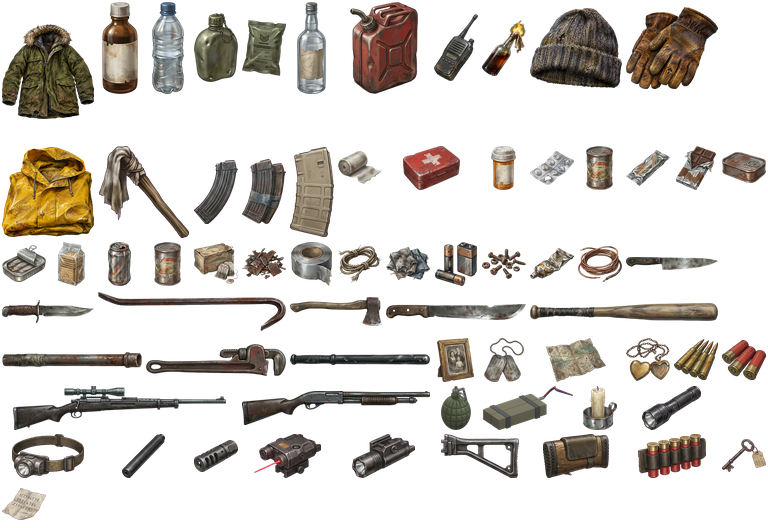
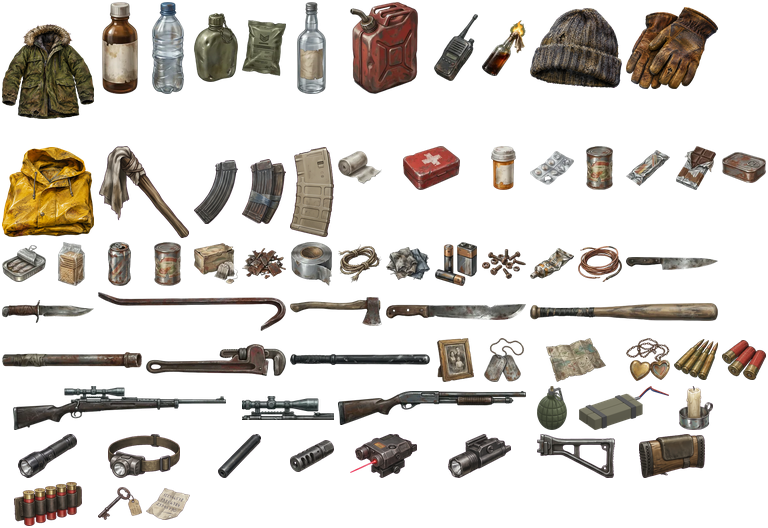
Luneta jako ulepszenie karabinu (założona na start) i strzał celowany: klik na wroga zatrzymuje czas, wybór części ciała widocznej z pozycji gracza z szansą trafienia
Claude-Session: https://claude.ai/code/session_01Tnx3kWKqVoZymAUDQ3LKJB

Changed region(s): [[0.0, 0.7273, 1.0, 1.0]]

diff --git a/index.html b/index.html
@@ -39,6 +39,11 @@ body{background:var(--bg);color:var(--text);font-family:var(--f-ui);overflow:hid
 #body .bar{height:8px;background:#14130f;border:1px solid #3a372f;border-radius:2px;overflow:hidden}
 #body .bar i{display:block;height:100%;width:0;background:var(--green);transition:width .2s}
 #body #dState{grid-column:1/3;font-family:var(--f-term);font-size:17px;color:var(--text)}
+#aimPanel{position:absolute;right:max(10px,env(safe-area-inset-right,0px));top:10px;z-index:6;background:rgba(14,13,10,.94);border:1px solid #ffcf5a;border-radius:6px;padding:10px 12px;width:230px;color:var(--text,#e8e0c8)}
+#aimPanel .ah{font-size:12px;color:var(--muted,#a8a08a);margin:4px 0 8px}
+#aimList{display:flex;flex-direction:column;gap:4px;margin-bottom:8px}
+#aimList button,#aimNo{display:flex;justify-content:space-between;background:#24211b;color:inherit;border:1px solid #4a463c;border-radius:4px;padding:4px 8px;font:inherit;font-size:15px;cursor:pointer;width:100%}
+#aimList button:hover{border-color:#ffcf5a}#aimList button b{color:#ffcf5a;font-family:var(--f-term)}#aimList button:disabled{opacity:.45;cursor:default}#aimList button:disabled b{color:inherit}
 #keypad{position:absolute;left:50%;top:50%;transform:translate(-50%,-50%);z-index:6;background:rgba(14,13,10,.96);border:1px solid var(--amber,#e8a63a);border-radius:6px;padding:12px 16px;color:var(--text,#e8e0c8);text-align:center;min-width:240px}
 #kpDials{display:flex;gap:10px;justify-content:center;margin:8px 0}
 #kpDials .dial{display:flex;flex-direction:column;align-items:center;gap:2px}
@@ -91,7 +96,7 @@ body{background:var(--bg);color:var(--text);font-family:var(--f-ui);overflow:hid
 #wmPop .ph button{background:none;border:0;color:var(--text);font-size:18px;cursor:pointer}
 #wmPop .wmg{display:flex;gap:12px;align-items:center}
 #wmPop .wmIcon{position:relative;width:150px;height:80px;background:#191814;border:1px solid #4a463e;border-radius:4px;overflow:hidden}
-#wmSlots{display:grid;grid-template-columns:repeat(2,64px);gap:6px}
+#wmSlots{display:grid;grid-template-columns:repeat(3,64px);gap:6px}
 #wmInfo{margin:8px 0 0;font-size:14px;color:var(--muted);max-width:340px}
 #slots{display:grid;grid-template-columns:auto 1fr auto;gap:8px}
 #slots .slot,#wmSlots .slot{position:relative;width:64px;height:64px;background:#191814;border:1px solid #4a463e;border-radius:4px;overflow:hidden}
@@ -117,6 +122,7 @@ button kbd{font-family:var(--f-term);font-size:17px;color:var(--amber);margin-ri
     <canvas id="c" aria-label="Izometryczna scena z prerenderowanych sprite'ów: zrujnowana kamienica, pawilon, wrak auta, złomiarze i wilczur"></canvas>
     <div id="vig"></div>
     <div id="tip" hidden></div>
+    <div id="aimPanel" hidden><div class="lbl" id="aimTitle">CEL</div><p class="ah">Czas stoi. Wybierz, w co strzelasz (klik na liście albo na ciele wroga). Esc: rezygnujesz.</p><div id="aimList"></div><button id="aimNo">Anuluj</button></div>
     <div id="keypad" hidden><div class="lbl">SEJF · SZYFR</div><div id="kpDials"></div><p id="kpHint"></p><div class="kpb"><button id="kpOk">Otwórz</button><button id="kpNo">Odejdź</button></div></div>
     <div id="ovl" aria-label="Ciało i wykrycie"><div class="lbl">CIAŁO I WYKRYCIE</div>
       <span>Kondycja</span><div class="bar"><i id="oSta"></i></div>
@@ -1119,7 +1125,7 @@ function pickWorld(bx,by){
 function playerFire(bx,by){
   if(uiOpen)return;if(searchSt){searchSt=null;}
   if(!player.alive){log('Nie żyjesz. Naciśnij R, żeby zacząć od nowa.');return;}
-  if(cool>0)return;const T=pickWorld(bx,by);if(!T)return;const w=WEAP[cur];
+  if(cool>0)return;const T=forcedShot?forcedShot.T:pickWorld(bx,by);if(!T)return;const w=WEAP[cur];
   if(w.gun&&!player.canShoot){log('Broń dwuręczna: jedną ręką nie strzelisz. Weź nóż (6) albo granat.');return;}
   if(!w.gun&&handOf(player)<0&&w.id!=='melee'){log('Bez rąk nic nie rzucisz.');return;}
   if(player.gait==='run'&&player.moving&&w.gun){log('W biegu nie strzelisz celnie. Puść Shift.');return;}
@@ -1135,7 +1141,7 @@ function playerFire(bx,by){
     const M=muzzle(player),p=proj(...M),md=modsOf(w.id);flashes.push({x:p[0],y:p[1],r:(w.id==='rifle'?16:24)*gunStat(w.id,'flash',1),a:.9});
     sfx(md.muzzle==='suppressor'?'strzal_tlumik':w.id==='rifle'?'karabin':'strzelba');
     const hl=player.lightOn&&player.eq.light&&IT[player.eq.light.id].light.hand;
-    const sv=shiver(),spk=gunStat(w.id,'spread',1)/(md.rail==='laser'&&player.batt<=0?.6:1)*(hl?1.6:1),dm=gunStat(w.id,'dmg',1),rk=gunStat(w.id,'recoil',1);
+    const sv=shiver(),spk=(forcedShot?forcedShot.k:gunStat(w.id,'spread',1)/(md.rail==='laser'&&player.batt<=0?.6:1))*(hl?1.6:1),dm=gunStat(w.id,'dmg',1),rk=gunStat(w.id,'recoil',1);
     if(w.id==='rifle')fireBullet(player,M,T,(.002+sv*.007)*spk,45*dm,2.2,.3);else for(let k=0;k<9;k++)fireBullet(player,M,T,(.03+sv*.008)*Math.max(.75,spk),14*dm,1.4,.07);
     shake+=(w.id==='rifle'?.8:1.6)*rk;player.recoil=(w.id==='rifle'?7:11)*rk;
     if(player.mag[w.id]<=0)setTimeout(()=>{if(player.alive&&!player.reload)startReload(w.id,true);},250);
@@ -1922,12 +1928,12 @@ function drawFx(){
   for(const t of tracers){ctx.strokeStyle=`rgba(255,226,150,${t.life/7})`;ctx.lineWidth=1;ctx.beginPath();ctx.moveTo(t.a[0],t.a[1]);ctx.lineTo(t.b[0],t.b[1]);ctx.stroke();}
   ctx.restore();
   ctx.save();ctx.globalAlpha=.022;ctx.translate((rnd()*128)|0,(rnd()*128)|0);ctx.fillStyle=grain;ctx.fillRect(-128,-128,BW+128,BH+128);ctx.restore();
-  drawRoofHole(false);drawWeather();applyLightmap();drawFireGlow();drawHandFlame();drawLights();drawRings();drawBubbles();drawInteract();
+  drawRoofHole(false);drawWeather();applyLightmap();drawFireGlow();drawHandFlame();drawLights();drawAimOverlay();drawRings();drawBubbles();drawInteract();
   drawAim();
   if(mx>=0){const hov=fPick[my*BW+mx]<=-2;ctx.fillStyle=hov?'#ff5a43':'#ffffff';ctx.fillRect(mx-6,my,4,1);ctx.fillRect(mx+3,my,4,1);ctx.fillRect(mx,my-6,1,4);ctx.fillRect(mx,my+3,1,4);}
 }
 
-window.__op={get TIME(){return TIME},get HOLE(){return HOLE},get SECRET(){return SECRET},installMod:(...a)=>installMod(...a),toggleLight:()=>toggleLight(),trySafe:c=>trySafe(c),startReload:w=>startReload(w),get pend(){return pend},get drag(){return drag},dropTarget:()=>dropTarget(),setW,addItem,get IT(){return IT},sever,gainXP,loadKg,get keys(){return keys},get blds(){return blds},setDoor,nearDoor,get ROT(){return ROT},get objs(){return objs},get wx(){return wx},setWeather,get conts(){return conts},get lights(){return lights},interact,get uiOpen(){return uiOpen},closeUI,openUI,get viewB(){return viewB},get chars(){return chars},get nb(){return nb},get gb(){return gBurn.length},get amt(){return fireAmt},moloBurst,explode,setStance,rotateView,get player(){return player}};
+window.__op={get TIME(){return TIME},get HOLE(){return HOLE},get SECRET(){return SECRET},installMod:(...a)=>installMod(...a),toggleLight:()=>toggleLight(),trySafe:c=>trySafe(c),startReload:w=>startReload(w),get aimMode(){return aimMode},startAim:c=>startAim(c),aimShoot:p=>aimShoot(p),get pend(){return pend},get drag(){return drag},dropTarget:()=>dropTarget(),setW,addItem,get IT(){return IT},sever,gainXP,loadKg,get keys(){return keys},get blds(){return blds},setDoor,nearDoor,get ROT(){return ROT},get objs(){return objs},get wx(){return wx},setWeather,get conts(){return conts},get lights(){return lights},interact,get uiOpen(){return uiOpen},closeUI,openUI,get viewB(){return viewB},get chars(){return chars},get nb(){return nb},get gb(){return gBurn.length},get amt(){return fireAmt},moloBurst,explode,setStance,rotateView,get player(){return player}};
 
 // ================= HUD =================
 const logEl=document.getElementById('log'),tip=document.getElementById('tip'),stats=document.getElementById('stats');
@@ -2131,6 +2137,7 @@ const stage=document.getElementById('stage');
 addEventListener('keydown',e=>{
   if(e.target.closest&&e.target.closest('button')&&(e.key===' '||e.key==='Enter'))return;
   const k=e.key.toLowerCase();
+  if(aimMode){if(e.key==='Escape')endAim();e.preventDefault();return;}
   if(uiOpen){if(k==='r'&&drag){drag.r=drag.r?0:1;const gh=drag.ghost;drag.ghost=mkGhost(drag.it.id,drag.r);gh.remove();moveGhost({clientX:drag.cx,clientY:drag.cy});}
     else if(k==='i'||k==='escape'||k==='tab'||k==='f'){e.preventDefault();closeUI();}return;}
   if(k==='i'||k==='tab'){e.preventDefault();if(ready&&player.alive)openUI(null);return;}
@@ -2166,7 +2173,10 @@ addEventListener('blur',()=>{for(const k in keys)keys[k]=false;});
 function toBuf(e){const r=cv.getBoundingClientRect();return [Math.floor((e.clientX-r.left)/r.width*BW),Math.floor((e.clientY-r.top)/r.height*BH)];}
 cv.addEventListener('pointermove',e=>{[mx,my]=toBuf(e);if(mx<0||my<0||mx>=BW||my>=BH)mx=my=-1;const sr=stage.getBoundingClientRect();tip.style.left=(e.clientX-sr.left+18)+'px';tip.style.top=(e.clientY-sr.top+14)+'px';});
 cv.addEventListener('pointerleave',()=>{mx=my=-1;tip.hidden=true;});
-cv.addEventListener('pointerdown',e=>{if(!ready)return;if(e.pointerType==='mouse'&&e.button!==0)return;const [bx,by]=toBuf(e);mx=bx;my=by;playerFire(bx,by);});
+cv.addEventListener('pointerdown',e=>{if(!ready)return;if(e.pointerType==='mouse'&&e.button!==0)return;const [bx,by]=toBuf(e);mx=bx;my=by;
+  if(aimMode){const h=charHit(aimMode.ch,bx,by);if(h)aimShoot(h.pi);return;}
+  if(!uiOpen&&player.alive&&WEAP[cur].id==='rifle'&&player.wm&&player.wm.rifle.optic==='scope'&&player.canShoot&&cool<=0){for(const ch of chars){if(ch===player||!ch.alive||charHidden(ch))continue;if(charHit(ch,bx,by)){startAim(ch);return;}}}
+  playerFire(bx,by);});
 function fit(){placeCanvas();}
 addEventListener('resize',fit);new ResizeObserver(fit).observe(stage);
 
@@ -2279,6 +2289,7 @@ Object.assign(IT,{
   candle:{n:'Świeczka',c:'Światło',d:'Mały, ciepły krąg światła. Wystarczy na długo, z daleka prawie jej nie widać.',light:{k:'candle',rad:62,col:[255,196,120],burn:21600,hand:true},stack:3},
   flashlight:{n:'Latarka',c:'Światło',d:'Mocny snop światła tam, gdzie patrzysz. Zjada baterie.',light:{k:'flash',len:215,ang:.36,col:[226,236,255],batt:true,hand:true}},
   headlamp:{n:'Latarka czołowa',c:'Światło',d:'Świeci tam, gdzie patrzysz, a obie ręce zostają wolne — można strzelać z karabinu.',light:{k:'head',len:150,ang:.5,col:[226,236,255],batt:true}},
+  scope:{n:'Luneta',c:'Dodatki do broni',d:'Luneta celownicza na karabin. Kliknij wroga z karabinem z lunetą: czas staje i wybierasz, w którą część ciała strzelić.'},
   suppressor:{n:'Tłumik',c:'Dodatki do broni',d:'Na lufę karabinu. Strzał słychać dużo bliżej, prawie bez błysku. Trochę słabszy pocisk.'},
   muzzle_brake:{n:'Hamulec wylotowy',c:'Dodatki do broni',d:'Tłumik odrzutu na lufę karabinu albo strzelby. Broń mniej podskakuje, następne strzały są celniejsze. Głośniejszy.'},
   laser:{n:'Celownik laserowy',c:'Dodatki do broni',d:'Na szynę. Czerwona kropka tam, gdzie poleci pocisk — dużo celniej z biodra. Potrzebuje baterii.'},
@@ -2292,14 +2303,14 @@ Object.assign(IT,{
   safe_key:{n:'Klucz z przywieszką',c:'Klucze',d:'Ciężki, stary klucz. Na kartoniku ktoś napisał: „sklep — zaplecze”.'},
   code_note:{n:'Kartka z cyframi',c:'Notatki',get d(){return `Pognieciona kartka. Większość cyfr przekreślona, zostało tylko: ${SECRET.code}. Może szyfr do sejfu?`;}},
 });
-Object.assign(WT,{torch:.6,candle:.15,flashlight:.35,headlamp:.2,suppressor:.5,muzzle_brake:.2,laser:.15,wlight:.2,stock_light:.3,stock_pad:.9,mag_ext:.45,mag_dual:.55,mag_light:.12,sidesaddle:.25,safe_key:.08,code_note:.01});
+Object.assign(WT,{scope:.45,torch:.6,candle:.15,flashlight:.35,headlamp:.2,suppressor:.5,muzzle_brake:.2,laser:.15,wlight:.2,stock_light:.3,stock_pad:.9,mag_ext:.45,mag_dual:.55,mag_light:.12,sidesaddle:.25,safe_key:.08,code_note:.01});
 LOOT.tools.push(['flashlight',.7],['candle',1],['torch',.8],['headlamp',.4]);
 LOOT.military.push(['muzzle_brake',.5],['mag_ext',.5],['mag_light',.5],['mag_dual',.4],['sidesaddle',.5],['stock_pad',.4],['wlight',.4]);
 LOOT.shop.push(['candle',1],['flashlight',.4]);
 LOOT.safe=[['suppressor',1],['laser',1],['wlight',.8],['stock_light',.7],['stock_pad',.7],['mag_ext',.8],['ammo_762',2],['ammo_shell',1.5],['first_aid_kit',.8],['antibiotics',.8],['batteries',1.2],['grenade',.6]];
 SLOTS.push(['light','Światło']);
 // ---- weapon modifications and magazines ----
-const MODS={suppressor:{slot:'muzzle',w:['rifle'],noise:.28,flash:.25,dmg:.92,snd:'strzal_tlumik'},
+const MODS={scope:{slot:'optic',w:['rifle'],spread:.8},suppressor:{slot:'muzzle',w:['rifle'],noise:.28,flash:.25,dmg:.92,snd:'strzal_tlumik'},
   muzzle_brake:{slot:'muzzle',w:['rifle','shotgun'],recoil:.5,spread:.85,noise:1.12},
   laser:{slot:'rail',w:['rifle','shotgun'],spread:.6,batt:true},
   wlight:{slot:'rail',w:['rifle','shotgun'],batt:true},
@@ -2309,12 +2320,12 @@ const MODS={suppressor:{slot:'muzzle',w:['rifle'],noise:.28,flash:.25,dmg:.92,sn
   mag_dual:{slot:'mag',w:['rifle'],cap:10,reload:38},
   mag_light:{slot:'mag',w:['rifle'],cap:8,reload:60,cd:.88},
   sidesaddle:{slot:'mag',w:['shotgun'],perShell:11}};
-const MOD_SLOTS=[['muzzle','Lufa'],['rail','Szyna'],['stock','Kolba'],['mag','Magazynek']];
+const MOD_SLOTS=[['optic','Luneta'],['muzzle','Lufa'],['rail','Szyna'],['stock','Kolba'],['mag','Magazynek']];
 const GUN={rifle:{cap:10,reload:90,ammo:'ammo_762',n:'Karabin'},shotgun:{cap:5,perShell:24,ammo:'ammo_shell',n:'Strzelba'}};
 function modsOf(w){return player.wm?player.wm[w]:{};}
 function gunStat(w,k,def){let v=def;for(const s in modsOf(w)){const m=MODS[modsOf(w)[s]];if(m&&m[k]!==undefined)v=(k==='cap'||k==='reload'||k==='perShell')?m[k]:v*m[k];}return v;}
 const capOf=w=>gunStat(w,'cap',GUN[w].cap);
-function initGunState(){player.wm={rifle:{},shotgun:{}};player.mag={rifle:capOf('rifle'),shotgun:capOf('shotgun')};player.reload=null;player.batt=100;player.lightOn=false;player.lightFuel=0;}
+function initGunState(){player.wm={rifle:{optic:'scope'},shotgun:{}};player.mag={rifle:capOf('rifle'),shotgun:capOf('shotgun')};player.reload=null;player.batt=100;player.lightOn=false;player.lightFuel=0;}
 function installMod(g,it,w){
   const m=MODS[it.id];if(!m)return false;w=w||m.w.find(x=>countItem(player.inv,x))||m.w[0];if(!m.w.includes(w)){log(`${IT[it.id].n} nie pasuje do: ${GUN[w].n.toLowerCase()}.`);return false;}
   const old=player.wm[w][m.slot];g.items.splice(g.items.indexOf(it),1);player.wm[w][m.slot]=it.id;
@@ -2472,12 +2483,48 @@ function drawRoofHole(inLm){
   ctx.restore();
 }
 
+// ================= aimed shot through the scope =================
+let aimMode=null,forcedShot=null;
+const AIM_BASE={head:.42,torso:.9,armL:.62,armR:.62,legL:.68,legR:.68,body:.9};
+function aimChances(ch){
+  const M=muzzle(player),out=[];
+  for(let pi=0;pi<ch.T.np;pi++){if(!ch.att[pi])continue;const im=frameOf(ch)[pi];if(!im)continue;
+    const C=partCenter(ch,pi,[0,0,0]),vis=los(M,C),d=Math.hypot(C[0]-M[0],C[1]-M[1],C[2]-M[2]);
+    const name=ch.T.defs[pi].name,base=AIM_BASE[name]||.6,lv=Math.min(1,lightLevel(C[0],C[1],C[2])+(ownLight()?.4:0));
+    let p=base*Math.max(.3,1-d/560)*(1-Math.min(.5,shiver()*.35))*(.55+.45*lv)*(ch.stance==='prone'?.8:1)*wx.cur.vis**.3;
+    if(player.stance!=='stand')p*=1.1;p=Math.max(.05,Math.min(.95,p));
+    out.push({pi,label:ch.T.defs[pi].label,vis,p:vis?p:0,C});}
+  return out;
+}
+function startAim(ch){
+  const w=WEAP.find(w=>w.id==='rifle');if(player.reload){log('Przeładowujesz…');return;}if(player.mag.rifle<=0){startReload('rifle');return;}
+  aimMode={ch,parts:aimChances(ch),hov:-1};if(!aimMode.parts.some(p=>p.vis)){log('Nic nie widać z tego miejsca.');aimMode=null;return;}
+  player.dir=dirTo(ch.x-player.x,ch.y-player.y);renderAimPanel();document.getElementById('aimPanel').hidden=false;sfx('montaz',player.x,player.y,player.z,.25);
+}
+function endAim(){aimMode=null;document.getElementById('aimPanel').hidden=true;}
+function aimShoot(pi){
+  const a=aimMode;if(!a)return;const P=a.parts.find(p=>p.pi===pi);if(!P||!P.vis)return;endAim();
+  const hit=rnd()<P.p,T=P.C.slice();if(!hit){const r=4+rnd()*5,t=rnd()*6.283;T[0]+=Math.cos(t)*r;T[1]+=Math.sin(t)*r;T[2]+=(rnd()-.4)*6;}
+  forcedShot={T,k:hit?.05:1.4};cool=0;playerFire(-1,-1);forcedShot=null;
+  log(hit?`Celny strzał: ${a.ch.name}, ${P.label}.`:`Pudło — ${P.label} (szansa była ${Math.round(P.p*100)}%).`);
+}
+function renderAimPanel(){const a=aimMode,el=document.getElementById('aimList');el.innerHTML='';
+  document.getElementById('aimTitle').textContent=`CEL: ${a.ch.name.toUpperCase()}`;
+  for(const P of a.parts){const b=document.createElement('button');b.disabled=!P.vis;b.innerHTML=`<span>${P.label[0].toUpperCase()+P.label.slice(1)}</span><b>${P.vis?Math.round(P.p*100)+'%':'zasłonięte'}</b>`;
+    b.addEventListener('click',()=>aimShoot(P.pi));b.addEventListener('pointerenter',()=>{a.hov=P.pi;});b.addEventListener('pointerleave',()=>{if(a.hov===P.pi)a.hov=-1;});el.appendChild(b);}}
+document.getElementById('aimNo').addEventListener('click',endAim);
+function drawAimOverlay(){const a=aimMode;if(!a)return;ctx.save();ctx.fillStyle='rgba(0,0,0,.35)';ctx.fillRect(0,0,BW,BH);
+  ctx.font='bold 11px "Barlow Condensed",Arial';ctx.textAlign='center';
+  for(const P of a.parts){const S=proj(...P.C),on=a.hov===P.pi;ctx.strokeStyle=P.vis?(on?'#ffcf5a':'rgba(255,207,90,.7)'):'rgba(160,160,160,.5)';ctx.lineWidth=on?2:1;
+    ctx.beginPath();ctx.arc(S[0],S[1],on?7:5,0,6.283);ctx.stroke();ctx.beginPath();ctx.moveTo(S[0]-10,S[1]);ctx.lineTo(S[0]-4,S[1]);ctx.moveTo(S[0]+4,S[1]);ctx.lineTo(S[0]+10,S[1]);ctx.stroke();
+    if(P.vis){ctx.fillStyle=on?'#ffcf5a':'#f2e8c8';ctx.fillText(Math.round(P.p*100)+'%',S[0]+18,S[1]+4);}}
+  const M=proj(...muzzle(player)),C=proj(a.ch.x,a.ch.y,a.ch.z+12);ctx.setLineDash([3,4]);ctx.strokeStyle='rgba(255,207,90,.35)';ctx.beginPath();ctx.moveTo(M[0],M[1]);ctx.lineTo(C[0],C[1]);ctx.stroke();ctx.restore();}
 // ================= loop =================
 let last=performance.now(),fc=0,fpsT=last,fps=60;
 function frame(now){
   const dt=Math.min(50,now-last);last=now;const ts=(dt/16.67)*(slow?.25:1);
   if(cool>0)cool-=dt/16.67;
-  if(!uiOpen){updChars(ts);updDetached(ts);updEmitters(ts);updChunks(ts);updTopples(ts);updFrags(ts);updSandLeaks(ts);updParticles(ts);updGrenades(ts);updFire(ts);updFx(ts);updView();updWeather(ts);updBody(ts);updLights(ts);updRings(ts);updSearch(ts);updTime(ts);updPlayerLight(ts);updReload(ts);updRoofHole(ts);if(laserOn())batteryTick(ts,.0018);}
+  if(!uiOpen&&!aimMode){updChars(ts);updDetached(ts);updEmitters(ts);updChunks(ts);updTopples(ts);updFrags(ts);updSandLeaks(ts);updParticles(ts);updGrenades(ts);updFire(ts);updFx(ts);updView();updWeather(ts);updBody(ts);updLights(ts);updRings(ts);updSearch(ts);updTime(ts);updPlayerLight(ts);updReload(ts);updRoofHole(ts);if(laserOn())batteryTick(ts,.0018);}
   updOverlay();updBreath();updNightAudio();
   flushDirty(ts);
   fCol.set(sCol);fDep.set(sDep);fZ.set(sZ);fPick.set(sObj);shMark.fill(0);

diff --git a/tools/build_items.py b/tools/build_items.py
@@ -72,6 +72,7 @@ for k in LIST: im, w, h = from_atlas(k); icons[k] = (fit(im, w, h), w, h)
 icons['ammo_762'] = (fit(Image.open(D + 'icons_ammo_naboje_762.webp').convert('RGBA'), 1, 1), 1, 1)
 icons['ammo_shell'] = (fit(Image.open(D + 'icons_ammo_srut.webp').convert('RGBA'), 1, 1), 1, 1)
 icons['rifle'] = (fit(Image.open(D + 'snajperka.webp').convert('RGBA'), 5, 1), 5, 1)
+icons['scope'] = (fit(Image.open(D + 'snajperka.webp').convert('RGBA').crop((92, 0, 183, 24)), 2, 1), 2, 1)  # the rifle's own scope
 icons['shotgun'] = (fit(Image.open(D + 'strzelba.webp').convert('RGBA'), 4, 1), 4, 1)
 icons['molotov'] = (fit(Image.open(D + 'molotov.webp').convert('RGBA'), 1, 2), 1, 2)
 icons['grenade'] = (fit(Image.open('bl/icons_out/ic_grenade.png').convert('RGBA'), 1, 1), 1, 1)
